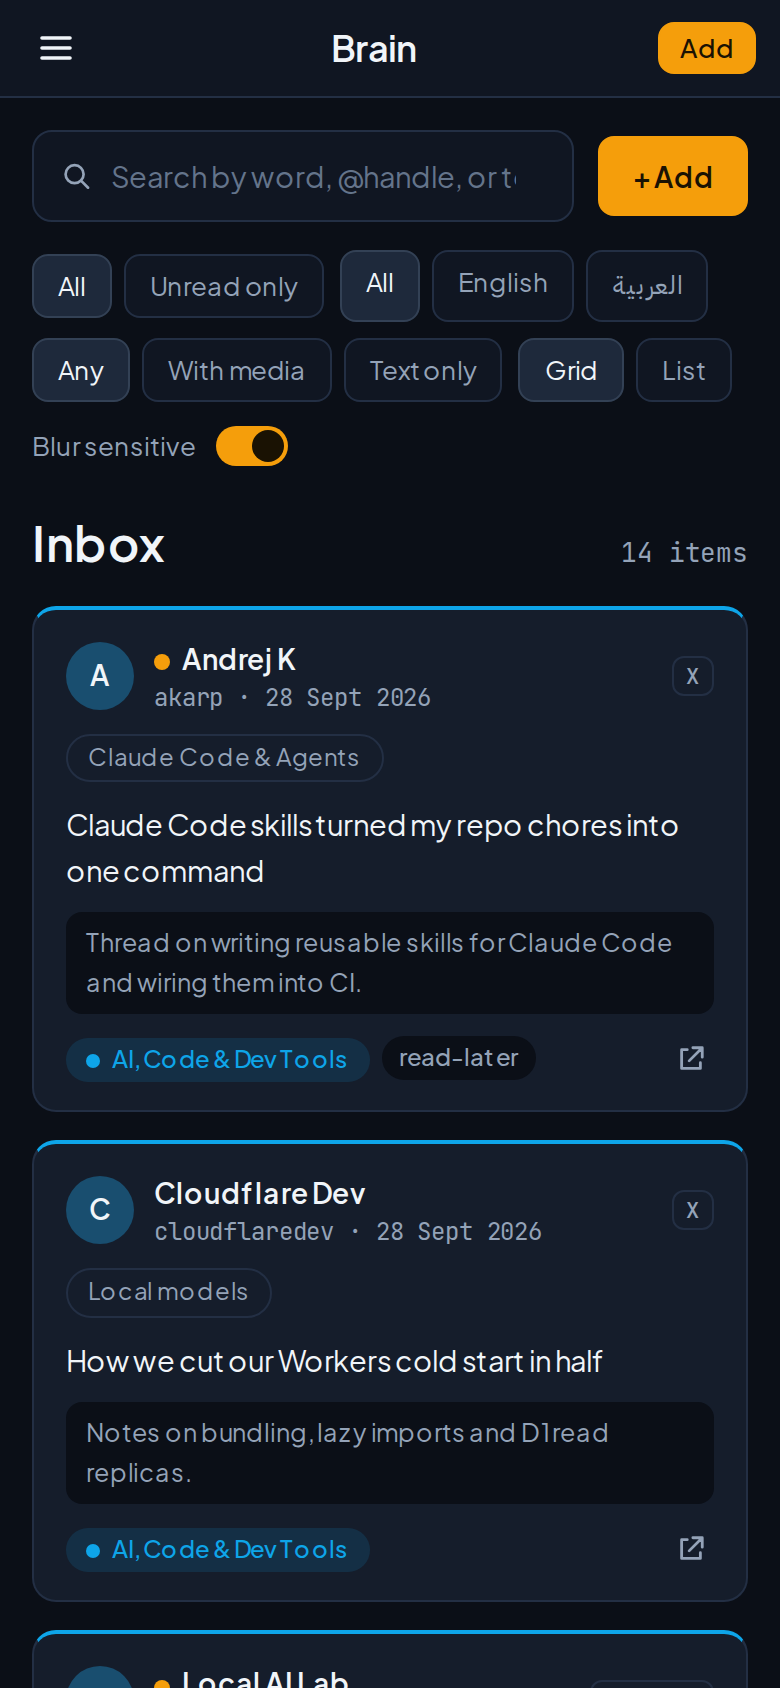
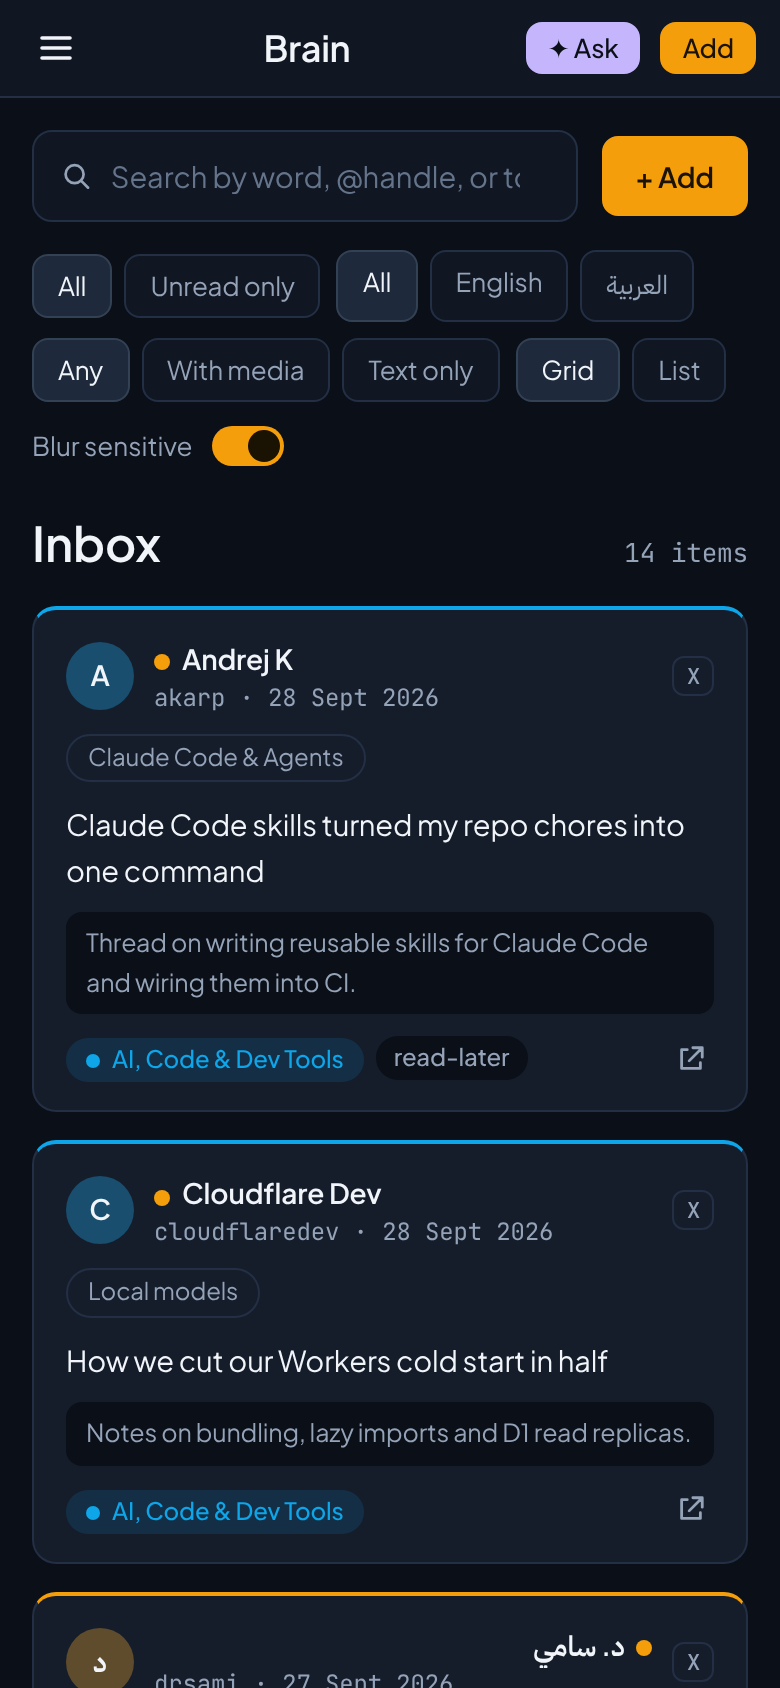
0.6.1: phone screenshots beside the desktop ones (#6)

diff --git a/web/src/app/globals.css b/web/src/app/globals.css
@@ -574,7 +574,7 @@ kbd {
 .answer { padding: 14px 16px; border-bottom: 1px solid var(--line); background: var(--memory-bg); }
 .answer-label { font: 600 11px var(--mono); text-transform: uppercase; letter-spacing: .06em; color: var(--memory); margin-bottom: 6px; }
 .answer p { margin: 0 0 10px; line-height: 1.55; color: var(--ink); white-space: pre-wrap; }
-.answer-sources { list-style: none; margin: 0; padding: 0; display: grid; gap: 2px; }
+.answer-sources { list-style: none; margin: 0; padding: 0; display: grid; grid-template-columns: minmax(0, 1fr); gap: 2px; }
 .answer-sources button {
   display: flex; gap: 8px; align-items: center; width: 100%; text-align: start; background: none; border: 0;
   padding: 5px 6px; border-radius: 6px; color: var(--ink); font: 13px var(--sans); cursor: pointer;
@@ -582,7 +582,7 @@ kbd {
 .answer-sources button:hover { background: var(--card); }
 .answer-sources .n { font: 600 11px var(--mono); color: var(--memory); width: 16px; }
 .answer-sources .t { flex: 1; min-width: 0; overflow: hidden; text-overflow: ellipsis; white-space: nowrap; }
-.answer-sources .d { color: var(--faint); font-size: 12px; }
+.answer-sources .d { color: var(--faint); font-size: 12px; white-space: nowrap; }
 
 /* Resurface */
 .resurface-page .page-head { flex-direction: column; align-items: flex-start; gap: 2px; }
@@ -678,7 +678,7 @@ kbd {
 .ai-key .inline-form input { font-family: var(--mono, ui-monospace, monospace); }
 
 /* Ask Brain page */
-.ask-box { display: grid; gap: 14px; margin-top: 12px; }
+.ask-box { display: grid; grid-template-columns: minmax(0, 1fr); gap: 14px; margin-top: 12px; }
 .ask-form { display: flex; gap: 8px; align-items: flex-end; }
 .ask-form textarea {
   flex: 1; min-width: 0; resize: vertical; font: 15px/1.45 var(--sans); padding: 10px 12px;

diff --git a/README.md b/README.md
@@ -36,60 +36,101 @@ Nothing is thrown away. Your data stays in your own cloud account, and the web a
 apps stay in sync. You can search, filter, read, archive, retag or add a note to anything.
 Arabic text shows right to left.
 
-**Version 0.6.0.** See [CHANGELOG.md](CHANGELOG.md) for what changed.
+**Version 0.6.1.** See [CHANGELOG.md](CHANGELOG.md) for what changed.
 
 ## What it looks like
 
-The screenshots below use sample data on a local copy of the app.
+The screenshots below use sample data on a local copy of the app. Each desktop page has the
+same page on a phone beside it.
 
-![The inbox as a card grid, with the side menu on the left](docs/images/grid.png)
+<p>
+  <img src="docs/images/grid.png" width="600" alt="The inbox as a card grid, with the side menu on the left">
+  <img src="docs/images/mobile-grid.png" width="180" alt="The same page on a phone">
+</p>
+
 *The inbox. The menu starts with Resurface (with today's count) and the weekly digest,
 then Inbox, Unread, All, Archive and Trash. Each card shows who posted it, the sub-topic,
 the text, AI's summary, the category, tags and any reminder.*
 
-![The List layout with an item open in the reading pane](docs/images/reading-pane.png)
+<p>
+  <img src="docs/images/reading-pane.png" width="600" alt="The List layout with an item open in the reading pane">
+  <img src="docs/images/mobile-reading-pane.png" width="180" alt="The same page on a phone">
+</p>
+
 *The List layout. A card opens in the reading pane beside the list; j and k move through
 it.*
 
-![The ⌘K box with word matches and Ask Brain](docs/images/palette.png)
+<p>
+  <img src="docs/images/palette.png" width="600" alt="The ⌘K box with word matches and Ask Brain">
+  <img src="docs/images/mobile-palette.png" width="180" alt="The same page on a phone">
+</p>
+
 *⌘K: word matches and things about the same idea, and Ask Brain for a written answer.*
 
-![The Ask Brain page with an answer that links a voice memo, an email, a screenshot, a pin and a bookmark](docs/images/ask.png)
+<p>
+  <img src="docs/images/ask.png" width="600" alt="The Ask Brain page with an answer that links a voice memo, an email, a screenshot, a pin and a bookmark">
+  <img src="docs/images/mobile-ask.png" width="180" alt="The same page on a phone">
+</p>
+
 *Ask Brain. Type a question and the AI answers from your own saves. Here it finds the kids'
 names in a voice memo, the party in an email, then a screenshot, a pin and a bookmark, and
 suggests gifts. "Looked for" shows what it searched, and each number opens the save it used.*
 
-![The Add to Brain page with Link, Note, Voice memo, Pictures and File, a recorded voice memo, a note and tags](docs/images/add.png)
+<p>
+  <img src="docs/images/add.png" width="600" alt="The Add to Brain page with Link, Note, Voice memo, Pictures and File, a recorded voice memo, a note and tags">
+  <img src="docs/images/mobile-add.png" width="180" alt="The same page on a phone">
+</p>
+
 *Add to Brain on the web. Pick what you're adding: a **Link**, a **Note**, a **Voice memo**
 (record it in the browser or pick a recording), up to 10 **Pictures** (each its own save) or
 any **File** up to 20 MB. Add a note and your own tags if you like. **Let AI sort** lets the
 chosen AI pick the category, summary and tags after you save.*
 
-![A Resurface card with Done, Tomorrow and Keep](docs/images/resurface.png)
+<p>
+  <img src="docs/images/resurface.png" width="600" alt="A Resurface card with Done, Tomorrow and Keep">
+  <img src="docs/images/mobile-resurface.png" width="180" alt="The same page on a phone">
+</p>
+
 *Resurface: a few saves a day. Keys 1, 2 and 3 answer.*
 
-![The Remind me menu on an item page](docs/images/remind.png)
+<p>
+  <img src="docs/images/remind.png" width="600" alt="The Remind me menu on an item page">
+  <img src="docs/images/mobile-remind.png" width="180" alt="The same page on a phone">
+</p>
+
 *Remind me on an item page: pick when it comes back.*
 
-![A weekly digest with numbered links to the saves](docs/images/digest.png)
+<p>
+  <img src="docs/images/digest.png" width="600" alt="A weekly digest with numbered links to the saves">
+  <img src="docs/images/mobile-digest.png" width="180" alt="The same page on a phone">
+</p>
+
 *The weekly digest, written by your chosen AI, with numbered links to the saves.*
 
-![One category opened from the side menu](docs/images/category.png)
+<p>
+  <img src="docs/images/category.png" width="600" alt="One category opened from the side menu">
+  <img src="docs/images/mobile-category.png" width="180" alt="The same page on a phone">
+</p>
+
 *One category, picked from the side menu. Arabic posts read right to left.*
 
-![An Arabic item page with its note, category and tags](docs/images/item.png)
+<p>
+  <img src="docs/images/item.png" width="600" alt="An Arabic item page with its note, category and tags">
+  <img src="docs/images/mobile-item.png" width="180" alt="The same page on a phone">
+</p>
+
 *An item page: open the original, archive it, write a note, change the category, add or
 remove tags.*
 
-![The Sources page](docs/images/sources.png)
+<p>
+  <img src="docs/images/sources.png" width="600" alt="The Sources page">
+  <img src="docs/images/mobile-sources.png" width="180" alt="The same page on a phone">
+</p>
+
 *Sources: Your chosen AI sorting with a "Sort now" button, then each source with its status and
 setup steps.*
 
-<p>
-  <img src="docs/images/mobile-grid.png" width="260" alt="The inbox on a phone">
-  <img src="docs/images/mobile-resurface.png" width="260" alt="Resurface on a phone">
-  <img src="docs/images/mobile-menu.png" width="260" alt="The side menu open on a phone">
-</p>
+<img src="docs/images/mobile-menu.png" width="180" alt="The side menu open on a phone">
 
 *On a phone the side menu slides in from the left.*
 

diff --git a/CHANGELOG.md b/CHANGELOG.md
@@ -3,6 +3,12 @@
 Versions cover the web app (`web/`), the iPhone app (`ios/`) and, from 0.6.0, the Android app (`android/`) together. Each one is a git
 tag, such as `v0.2.0`.
 
+## 0.6.1 (2026-10-13)
+
+- On a phone, the Ask Brain page no longer runs off the right edge; long source titles shorten
+  instead.
+- README: each desktop screenshot now has the same page on a phone beside it.
+
 ## 0.6.0 "Android" (2026-10-13)
 
 ### New
